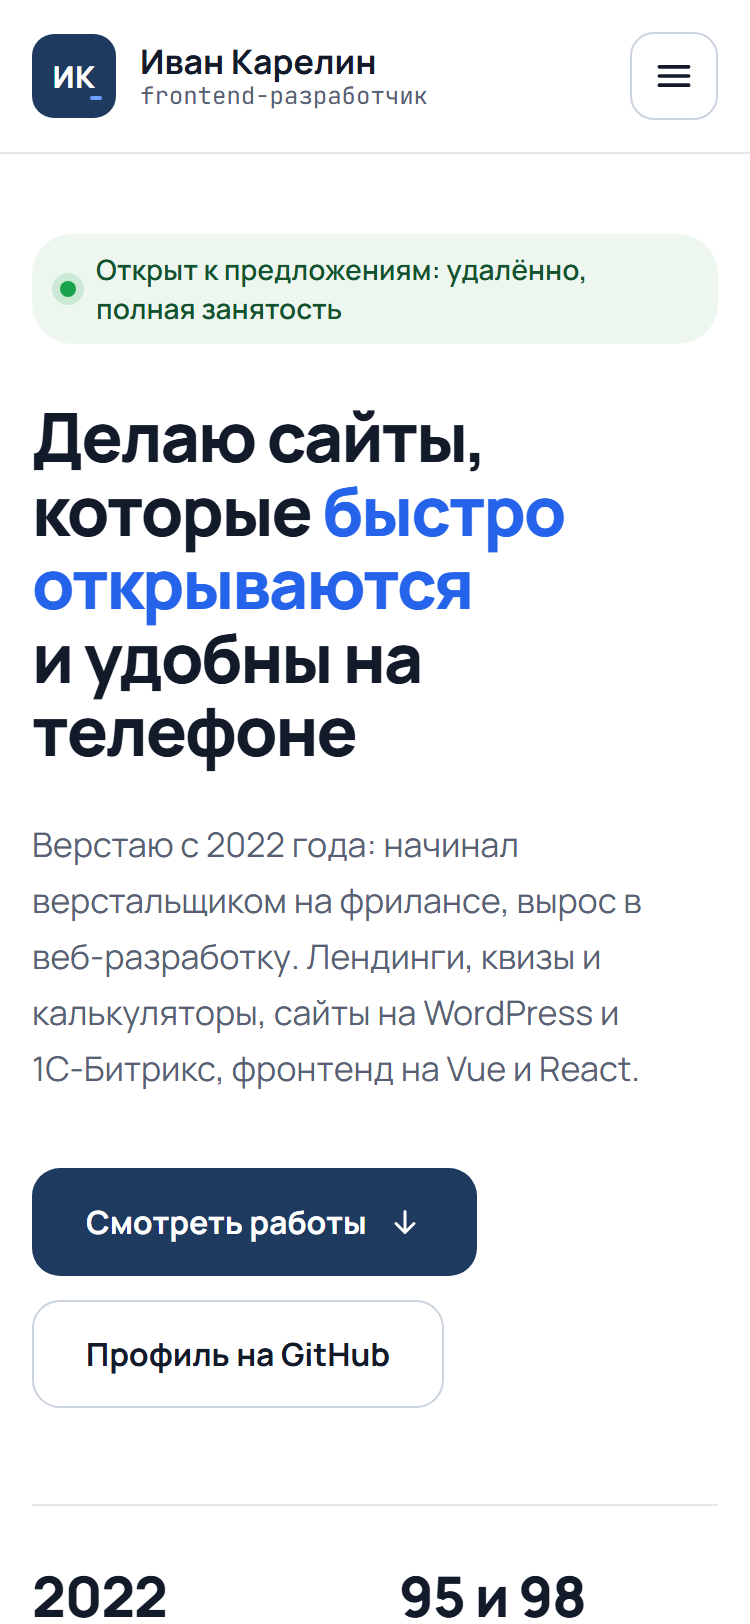
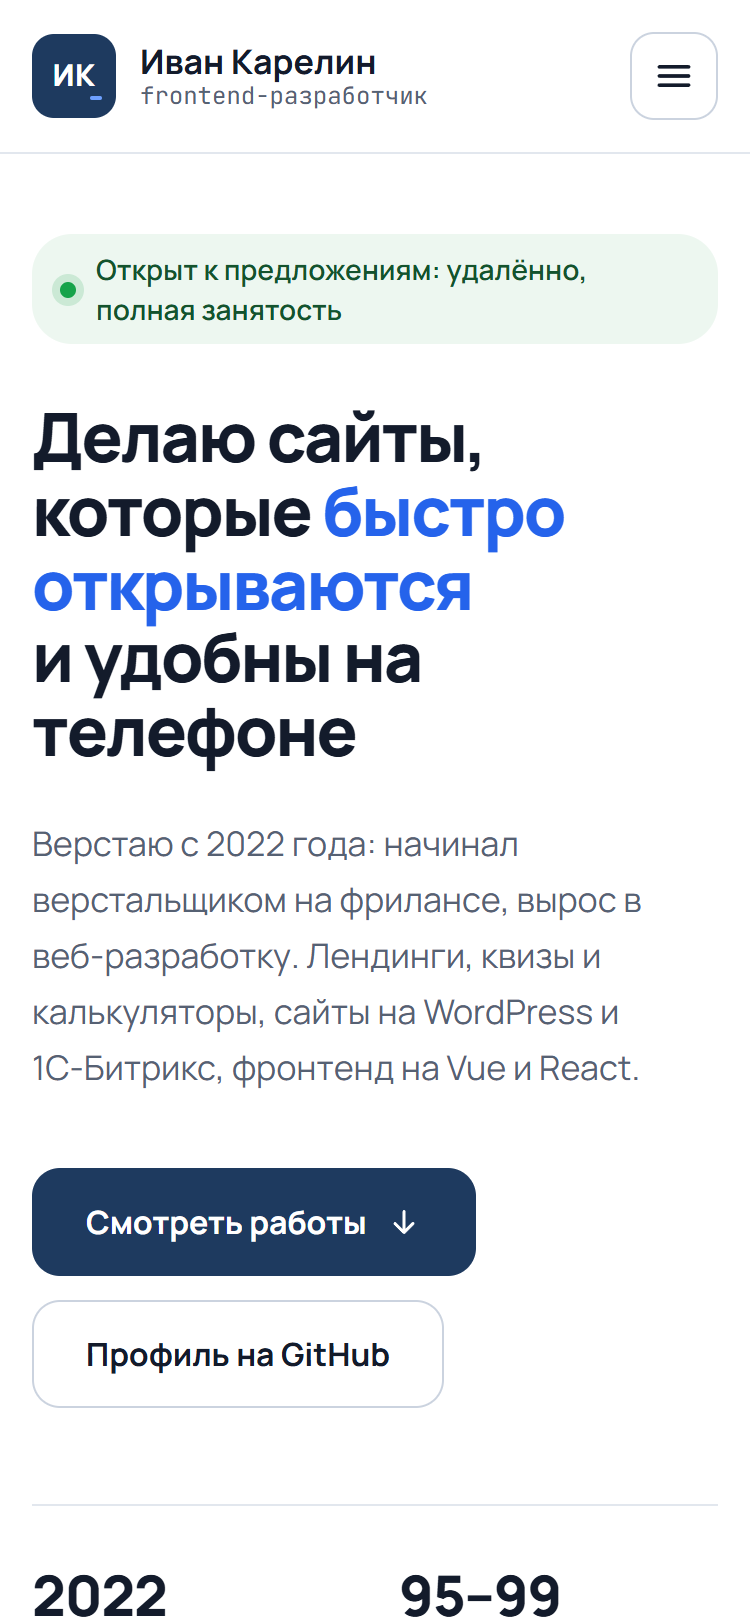
Витрина: каталог «Литера» первой работой
- карточка на всю ширину: скриншот слева, описание, стек и Lighthouse справа
- «Ясно» и «Пион» стали 02 и 03, каталог убран из блока «в работе»
- факты и описание для превью ссылки с учётом новой работы, свежие скриншоты в README

diff --git a/docs/css/main.css b/docs/css/main.css
@@ -1,1 +1,1 @@
-@font-face{font-family:"Manrope Fallback";font-style:normal;font-weight:400 500;src:local("Arial");size-adjust:102.4%}@font-face{font-family:"Manrope Fallback";font-style:normal;font-weight:600 700;src:local("Arial Bold");size-adjust:98.3%}@font-face{font-family:"Manrope Fallback";font-style:normal;font-weight:800;src:local("Arial Bold");size-adjust:100.7%}@font-face{font-family:"Manrope";font-style:normal;font-weight:200 800;font-display:swap;src:url("../fonts/manrope-cyrillic-wght-normal.woff2") format("woff2");unicode-range:U+0301,U+0400-045F,U+0490-0491,U+04B0-04B1,U+2116}@font-face{font-family:"Manrope";font-style:normal;font-weight:200 800;font-display:swap;src:url("../fonts/manrope-latin-wght-normal.woff2") format("woff2");unicode-range:U+0000-00FF,U+0131,U+0152-0153,U+02BB-02BC,U+02C6,U+02DA,U+02DC,U+0304,U+0308,U+0329,U+2000-206F,U+20AC,U+2122,U+2191,U+2193,U+2212,U+2215,U+FEFF,U+FFFD}@font-face{font-family:"JetBrains Mono";font-style:normal;font-weight:200 800;font-display:swap;src:url("../fonts/jetbrains-mono-cyrillic-wght-normal.woff2") format("woff2");unicode-range:U+0301,U+0400-045F,U+0490-0491,U+04B0-04B1,U+2116}@font-face{font-family:"JetBrains Mono";font-style:normal;font-weight:200 800;font-display:swap;src:url("../fonts/jetbrains-mono-latin-wght-normal.woff2") format("woff2");unicode-range:U+0000-00FF,U+0131,U+0152-0153,U+02BB-02BC,U+02C6,U+02DA,U+02DC,U+0304,U+0308,U+0329,U+2000-206F,U+20AC,U+2122,U+2191,U+2193,U+2212,U+2215,U+FEFF,U+FFFD}*,*::before,*::after{box-sizing:border-box}html{-webkit-text-size-adjust:100%;scroll-behavior:smooth;scroll-padding-top:88px}body{margin:0;font-family:"Manrope","Manrope Fallback",system-ui,-apple-system,"Segoe UI",sans-serif;font-size:16px;line-height:1.5;color:#131b2b;background:#fff;-webkit-font-smoothing:antialiased}img{display:block;max-width:100%;height:auto}h1,h2,h3,p,ul,ol,dl,dd,figure,pre{margin:0}ul,ol{padding:0;list-style:none}a{color:#1e3a5f}a:hover{color:#2563eb}:focus-visible{outline:3px solid #2563eb;outline-offset:3px}.wrap{max-width:1200px;margin-inline:auto;padding-inline:clamp(16px,4vw,40px)}.visually-hidden{position:absolute;width:1px;height:1px;margin:-1px;padding:0;overflow:hidden;clip:rect(0 0 0 0);white-space:nowrap;border:0}.nowrap{white-space:nowrap}.skip-link{position:absolute;top:-100px;left:16px;z-index:100;padding:12px 18px;border-radius:12px;background:#1e3a5f;color:#fff;font-weight:700;text-decoration:none}.skip-link:focus{top:12px;color:#fff}.icon{flex-shrink:0;width:18px;height:18px;fill:none;stroke:currentColor;stroke-width:2;stroke-linecap:round;stroke-linejoin:round}.sprite{position:absolute;width:0;height:0;overflow:hidden}@media(prefers-reduced-motion: reduce){html{scroll-behavior:auto}*,*::before,*::after{transition-duration:.01ms !important;animation-duration:.01ms !important}}.btn{display:inline-flex;align-items:center;justify-content:center;gap:10px;height:54px;padding:0 26px;border:1px solid rgba(0,0,0,0);border-radius:14px;font:inherit;font-size:16px;font-weight:700;line-height:1;text-decoration:none;white-space:nowrap;cursor:pointer;transition:background-color .2s,border-color .2s,color .2s}.btn--primary{background:#1e3a5f;color:#fff}.btn--primary:hover{background:#16304f;color:#fff}.btn--outline{border-color:#cbd3df;background:rgba(0,0,0,0);color:#131b2b}.btn--outline:hover{border-color:#1e3a5f;color:#1e3a5f}.btn--md{gap:8px;height:48px;padding:0 20px;border-radius:12px;font-size:15px}.btn--sm{gap:8px;height:44px;padding:0 18px;border-radius:12px;font-size:15px}.btn--md .icon{width:16px;height:16px}.section{padding-block:96px}.section--ground{background:#f5f7fa}@media(max-width: 599.98px){.section{padding-block:64px}}.section__label{font-family:"JetBrains Mono",ui-monospace,"Cascadia Mono",Consolas,monospace;font-size:13px;font-weight:500;color:#2563eb}.section__title{margin-top:12px;font-size:clamp(32px,3.4vw,44px);font-weight:800;line-height:1.1;letter-spacing:-0.025em}.section__head{display:flex;flex-wrap:wrap;align-items:flex-end;justify-content:space-between;gap:16px 48px}.section__text{max-width:520px;font-size:17px;line-height:1.6;color:#566173}.tag{padding:5px 12px;border-radius:999px;background:#eef2f8;font-size:13px;font-weight:600;color:#1e3a5f}.badge{display:inline-block;padding:4px 10px;border-radius:999px;background:#fff3e2;font-family:"JetBrains Mono",ui-monospace,"Cascadia Mono",Consolas,monospace;font-size:12px;font-weight:500;color:#8a4b00}.dots{display:flex;gap:8px}.dots span{width:10px;height:10px;border-radius:50%;background:#d5dbe4}.dots--sm{gap:6px}.dots--sm span{width:8px;height:8px}.checklist{display:grid;gap:10px;font-size:15px;line-height:1.5}.checklist li{display:flex;gap:10px}.checklist .icon{width:20px;height:20px;margin-top:1px;color:#16a34a;stroke-width:2.4}.code-tags{display:flex;flex-wrap:wrap;gap:8px}.code-tags li{padding:5px 10px;border:1px solid #e2e7ee;border-radius:8px;font-family:"JetBrains Mono",ui-monospace,"Cascadia Mono",Consolas,monospace;font-size:13px}.chips{display:flex;flex-wrap:wrap;gap:8px}.chips li{padding:5px 11px;border-radius:8px;background:#f5f7fa;font-size:14px;font-weight:500}.header{position:sticky;top:0;z-index:50;background:#fff;border-bottom:1px solid #e2e7ee;transition:box-shadow .2s}.header.is-scrolled{box-shadow:0 8px 24px rgba(19,27,43,.06)}.header__inner{display:flex;align-items:center;gap:24px;height:76px}.logo{display:flex;flex-shrink:0;align-items:center;gap:12px;color:#131b2b;text-decoration:none}.logo:hover{color:#131b2b}.logo__mark{position:relative;display:inline-flex;align-items:center;justify-content:center;width:42px;height:42px;border-radius:11px;background:#1e3a5f;color:#fff;font-size:15px;font-weight:800;letter-spacing:.02em}.logo__mark::after{content:"";position:absolute;right:7px;bottom:9px;width:6px;height:2px;border-radius:1px;background:#6ea0ff}.logo__text{display:flex;flex-direction:column;line-height:1.2}.logo__name{font-size:17px;font-weight:700}.logo__role{font-family:"JetBrains Mono",ui-monospace,"Cascadia Mono",Consolas,monospace;font-size:12px;color:#566173}.nav{margin-left:auto}.nav__list{display:flex;gap:28px}.nav__link{position:relative;display:inline-flex;align-items:center;min-height:44px;font-size:15px;font-weight:600;color:#131b2b;text-decoration:none}.nav__link:hover{color:#2563eb}.nav__link[aria-current=true]{color:#1e3a5f}.nav__link[aria-current=true]::after{content:"";position:absolute;right:0;bottom:6px;left:0;height:2px;border-radius:1px;background:#2563eb}.nav__item--mobile{display:none}.header__github{margin-left:8px}.header__burger{display:none}.header__burger .icon{width:22px;height:22px}.header__burger .icon--close,.header__burger[aria-expanded=true] .icon--menu{display:none}.header__burger[aria-expanded=true] .icon--close{display:block}@media(max-width: 859.98px){.header__github{margin-left:auto}.header__burger{display:inline-flex;align-items:center;justify-content:center;width:44px;height:44px;padding:0;border:1px solid #cbd3df;border-radius:12px;background:#fff;color:#131b2b;cursor:pointer}.nav{position:absolute;top:100%;right:0;left:0;display:none;margin:0;padding:4px clamp(16px,4vw,40px) 20px;background:#fff;border-bottom:1px solid #e2e7ee;box-shadow:0 16px 32px rgba(19,27,43,.08)}.header.is-menu-open .nav{display:block}.nav__list{flex-direction:column;gap:0}.nav__link{display:flex;min-height:54px;border-bottom:1px solid #e2e7ee;font-size:17px}.nav__link[aria-current=true]::after{display:none}.nav__item--mobile{display:block}}@media(max-width: 519.98px){.header__github{display:none}.header__burger{margin-left:auto}}.hero__inner{display:flex;flex-wrap:wrap;align-items:center;gap:56px 64px;padding-block:72px 96px}@media(max-width: 599.98px){.hero__inner{gap:48px;padding-block:40px 72px}}.hero__content{flex:1 1 560px;min-width:0}.hero__visual{flex:1 1 440px;min-width:0;max-width:600px}.status{display:inline-flex;align-items:center;gap:10px;padding:8px 16px 8px 14px;border-radius:20px;background:#edf7f0;font-size:14px;font-weight:600;line-height:1.4;color:#14532d}.status__dot{flex-shrink:0;width:8px;height:8px;border-radius:50%;background:#16a34a;box-shadow:0 0 0 4px rgba(22,163,74,.16)}.hero__title{margin-top:28px;font-size:clamp(34px,3.7vw,52px);font-weight:800;line-height:1.08;letter-spacing:-0.03em}.hero__accent{color:#2563eb}.hero__lead{max-width:560px;margin-top:24px;font-size:18px;line-height:1.65;color:#566173}@media(max-width: 599.98px){.hero__lead{font-size:17px}}.hero__actions{display:flex;flex-wrap:wrap;gap:12px;margin-top:36px}.facts{display:grid;grid-template-columns:repeat(auto-fit, minmax(150px, 1fr));gap:20px 24px;margin-top:48px;padding-top:28px;border-top:1px solid #e2e7ee}.facts__item{display:flex;flex-direction:column;gap:4px}.facts__value{font-size:28px;font-weight:800;line-height:1.2;letter-spacing:-0.02em}.facts__label{font-size:14px;color:#566173}.code-stage{position:relative;padding:clamp(10px,3vw,36px);border-radius:32px;background-color:#f5f7fa;background-image:radial-gradient(#cbd3df 1.2px, transparent 1.2px);background-size:20px 20px}.code-card{overflow:hidden;background:#fff;border:1px solid #e2e7ee;border-radius:20px;box-shadow:0 24px 60px rgba(19,27,43,.1)}.code-card__bar{display:flex;align-items:center;gap:18px;padding:14px 18px;border-bottom:1px solid #e2e7ee}.code-card__file{padding:4px 10px;border-radius:8px;background:#f5f7fa;font-family:"JetBrains Mono",ui-monospace,"Cascadia Mono",Consolas,monospace;font-size:13px;color:#566173}.code{padding:22px 24px 26px;overflow-x:auto;font-family:"JetBrains Mono",ui-monospace,"Cascadia Mono",Consolas,monospace;font-size:clamp(12px,1.05vw,14px);line-height:1.8;color:#566173;counter-reset:line}@media(max-width: 599.98px){.code{padding:18px 16px 20px}}.code__line::before{counter-increment:line;content:counter(line);display:inline-block;width:2ch;margin-right:1ch;color:#a3acba}@media(max-width: 599.98px){.code__line::before{display:none}}.code__kw{color:#7a4fd6}.code__var{font-weight:500;color:#131b2b}.code__prop{color:#1e3a5f}.code__str{color:#0e7c66}.code__num{color:#c2410c}.score-badge{position:absolute;right:-12px;bottom:-30px;display:flex;flex-wrap:wrap;align-items:center;gap:12px 16px;padding:14px 18px;background:#fff;border:1px solid #e2e7ee;border-radius:18px;box-shadow:0 18px 40px rgba(19,27,43,.1)}@media(max-width: 599.98px){.score-badge{position:relative;right:auto;bottom:auto;margin-top:16px}}.score-badge__title{display:flex;flex-direction:column;line-height:1.35}.score-badge__label{font-family:"JetBrains Mono",ui-monospace,"Cascadia Mono",Consolas,monospace;font-size:12px;color:#566173}.score-badge__name{font-size:15px;font-weight:700}.score-badge__list{display:flex;gap:8px}.score-ring{display:inline-flex;align-items:center;justify-content:center;width:40px;height:40px;border:3px solid #16a34a;border-radius:50%;font-size:12px;font-weight:800;color:#166534}.works,.upcoming{display:grid;grid-template-columns:repeat(auto-fit, minmax(min(100%, 440px), 1fr));gap:24px}.works{margin-top:48px}.upcoming{margin-top:24px}.work-card{display:flex;flex-direction:column;overflow:hidden;background:#fff;border:1px solid #e2e7ee;border-radius:28px}.work-card__media{position:relative;padding:28px 28px 0}.work-card__media--okna{background:#e9eff8}.work-card__media--pion{background:#fbeef1}@media(max-width: 599.98px){.work-card__media{padding:20px 20px 0}}.browser{overflow:hidden;background:#fff;border-radius:12px 12px 0 0;box-shadow:0 -2px 30px rgba(19,27,43,.08)}.browser__bar{display:flex;align-items:center;gap:14px;padding:10px 14px}.browser__url{min-width:0;padding:3px 10px;overflow:hidden;border-radius:6px;background:#f5f7fa;font-family:"JetBrains Mono",ui-monospace,"Cascadia Mono",Consolas,monospace;font-size:11px;color:#566173;white-space:nowrap;text-overflow:ellipsis}.browser__shot{width:100%;aspect-ratio:16/10;object-fit:cover}.phone{position:absolute;right:20px;bottom:18px;width:clamp(84px,22%,118px);overflow:hidden;background:#fff;border:5px solid #1b2433;border-radius:20px;box-shadow:0 16px 36px rgba(19,27,43,.22)}.phone img{width:100%;aspect-ratio:300/633}@media(max-width: 599.98px){.phone{right:12px;bottom:12px;border-width:4px;border-radius:16px}}.work-card__body{display:flex;flex:1;flex-direction:column;gap:22px;padding:32px clamp(20px,3vw,36px) 36px}@media(max-width: 599.98px){.work-card__body{padding-block:26px 28px}}.work-card__tags{display:flex;flex-wrap:wrap;align-items:center;gap:10px}.work-card__num{font-family:"JetBrains Mono",ui-monospace,"Cascadia Mono",Consolas,monospace;font-size:13px;color:#566173}.work-card__title{font-size:26px;font-weight:800;line-height:1.2;letter-spacing:-0.02em}.work-card__text{margin-top:10px;font-size:16px;line-height:1.6;color:#566173}.scores__title{font-family:"JetBrains Mono",ui-monospace,"Cascadia Mono",Consolas,monospace;font-size:12px;color:#566173}.scores__list{display:grid;grid-template-columns:repeat(4, minmax(0, 1fr));gap:8px;margin-top:10px}@media(max-width: 479.98px){.scores__list{grid-template-columns:repeat(2, minmax(0, 1fr))}}.score{padding:10px;border-radius:12px;background:#eff8f2}.score__value{display:block;font-size:20px;font-weight:800;line-height:1.3;color:#166534}.score__label{display:block;font-size:12px;color:#3b5a45}.work-card__actions{display:flex;flex-wrap:wrap;gap:10px;margin-top:auto;padding-top:4px}.upcoming__card{display:flex;flex-wrap:wrap;align-items:center;gap:16px 24px;padding:28px clamp(20px,3vw,36px);border:1.5px dashed #cbd3df;border-radius:24px}.upcoming__body{flex:1 1 240px;min-width:0}.upcoming__title{margin-top:12px;font-size:20px;font-weight:800;letter-spacing:-0.01em}.upcoming__text{margin-top:6px;font-size:15px;line-height:1.55;color:#566173}.upcoming__stack{font-family:"JetBrains Mono",ui-monospace,"Cascadia Mono",Consolas,monospace;font-size:13px;color:#566173}.skills{display:grid;grid-template-columns:repeat(auto-fit, minmax(min(100%, 250px), 1fr));gap:20px;margin-top:40px}.skill-group{padding:28px;border:1px solid #e2e7ee;border-radius:22px}@media(max-width: 599.98px){.skill-group{padding:24px 20px}}.skill-group__icon{display:inline-flex;align-items:center;justify-content:center;width:44px;height:44px;border-radius:12px;background:#eef2f8;color:#1e3a5f}.skill-group__icon .icon{width:22px;height:22px;stroke-width:1.9}.skill-group__title{margin-top:18px;font-size:19px;font-weight:800}.skill-group .chips{margin-top:16px}.skills__note{margin-top:28px;font-size:16px;line-height:1.6;color:#566173}.about{display:flex;flex-wrap:wrap;gap:48px 72px}.about__intro{flex:1 1 420px;min-width:0}.about__text{margin-top:28px}.about__text p{font-size:18px;line-height:1.7;color:#2b3445}.about__text p+p{margin-top:18px}@media(max-width: 599.98px){.about__text p{font-size:17px}}.about__meta{display:grid;gap:12px;margin-top:32px}.meta-row{display:flex;flex-wrap:wrap;gap:4px 16px;padding:14px 18px;background:#fff;border:1px solid #e2e7ee;border-radius:14px}.meta-row dt{flex:0 0 120px;font-family:"JetBrains Mono",ui-monospace,"Cascadia Mono",Consolas,monospace;font-size:13px;line-height:1.7;color:#566173}.meta-row dd{font-size:15px;font-weight:600}.about__offers{flex:1 1 460px;min-width:0}.about__subtitle{font-size:15px;font-weight:700;color:#566173}.offers{display:grid;gap:16px;margin-top:20px}.offer{display:flex;gap:20px;padding:26px;background:#fff;border:1px solid #e2e7ee;border-radius:20px}@media(max-width: 599.98px){.offer{gap:14px;padding:22px 20px}}.offer__num{flex-shrink:0;font-family:"JetBrains Mono",ui-monospace,"Cascadia Mono",Consolas,monospace;font-size:14px;font-weight:500;line-height:1.75;color:#2563eb}.offer__title{font-size:18px;font-weight:800}.offer__text{margin-top:8px;font-size:15px;line-height:1.6;color:#566173}.cta{display:flex;flex-wrap:wrap;align-items:center;justify-content:space-between;gap:32px 48px;padding:clamp(28px,5vw,56px);border-radius:32px;background:#eaf0fb}@media(max-width: 599.98px){.cta{border-radius:24px}}.cta__content{flex:1 1 480px;min-width:0}.cta__title{font-size:clamp(28px,3vw,40px);font-weight:800;line-height:1.15;letter-spacing:-0.025em;text-wrap:balance}.cta__text{max-width:560px;margin-top:16px;font-size:17px;line-height:1.6;color:#3e4859}.footer{border-top:1px solid #e2e7ee}.footer__inner{display:flex;flex-wrap:wrap;align-items:center;justify-content:space-between;gap:12px 32px;padding-block:28px 32px;font-size:14px;line-height:1.5;color:#566173}.footer__link{font-weight:600}
+@font-face{font-family:"Manrope Fallback";font-style:normal;font-weight:400 500;src:local("Arial");size-adjust:102.4%}@font-face{font-family:"Manrope Fallback";font-style:normal;font-weight:600 700;src:local("Arial Bold");size-adjust:98.3%}@font-face{font-family:"Manrope Fallback";font-style:normal;font-weight:800;src:local("Arial Bold");size-adjust:100.7%}@font-face{font-family:"Manrope";font-style:normal;font-weight:200 800;font-display:swap;src:url("../fonts/manrope-cyrillic-wght-normal.woff2") format("woff2");unicode-range:U+0301,U+0400-045F,U+0490-0491,U+04B0-04B1,U+2116}@font-face{font-family:"Manrope";font-style:normal;font-weight:200 800;font-display:swap;src:url("../fonts/manrope-latin-wght-normal.woff2") format("woff2");unicode-range:U+0000-00FF,U+0131,U+0152-0153,U+02BB-02BC,U+02C6,U+02DA,U+02DC,U+0304,U+0308,U+0329,U+2000-206F,U+20AC,U+2122,U+2191,U+2193,U+2212,U+2215,U+FEFF,U+FFFD}@font-face{font-family:"JetBrains Mono";font-style:normal;font-weight:200 800;font-display:swap;src:url("../fonts/jetbrains-mono-cyrillic-wght-normal.woff2") format("woff2");unicode-range:U+0301,U+0400-045F,U+0490-0491,U+04B0-04B1,U+2116}@font-face{font-family:"JetBrains Mono";font-style:normal;font-weight:200 800;font-display:swap;src:url("../fonts/jetbrains-mono-latin-wght-normal.woff2") format("woff2");unicode-range:U+0000-00FF,U+0131,U+0152-0153,U+02BB-02BC,U+02C6,U+02DA,U+02DC,U+0304,U+0308,U+0329,U+2000-206F,U+20AC,U+2122,U+2191,U+2193,U+2212,U+2215,U+FEFF,U+FFFD}*,*::before,*::after{box-sizing:border-box}html{-webkit-text-size-adjust:100%;scroll-behavior:smooth;scroll-padding-top:88px}body{margin:0;font-family:"Manrope","Manrope Fallback",system-ui,-apple-system,"Segoe UI",sans-serif;font-size:16px;line-height:1.5;color:#131b2b;background:#fff;-webkit-font-smoothing:antialiased}img{display:block;max-width:100%;height:auto}h1,h2,h3,p,ul,ol,dl,dd,figure,pre{margin:0}ul,ol{padding:0;list-style:none}a{color:#1e3a5f}a:hover{color:#2563eb}:focus-visible{outline:3px solid #2563eb;outline-offset:3px}.wrap{max-width:1200px;margin-inline:auto;padding-inline:clamp(16px,4vw,40px)}.visually-hidden{position:absolute;width:1px;height:1px;margin:-1px;padding:0;overflow:hidden;clip:rect(0 0 0 0);white-space:nowrap;border:0}.nowrap{white-space:nowrap}.skip-link{position:absolute;top:-100px;left:16px;z-index:100;padding:12px 18px;border-radius:12px;background:#1e3a5f;color:#fff;font-weight:700;text-decoration:none}.skip-link:focus{top:12px;color:#fff}.icon{flex-shrink:0;width:18px;height:18px;fill:none;stroke:currentColor;stroke-width:2;stroke-linecap:round;stroke-linejoin:round}.sprite{position:absolute;width:0;height:0;overflow:hidden}@media(prefers-reduced-motion: reduce){html{scroll-behavior:auto}*,*::before,*::after{transition-duration:.01ms !important;animation-duration:.01ms !important}}.btn{display:inline-flex;align-items:center;justify-content:center;gap:10px;height:54px;padding:0 26px;border:1px solid rgba(0,0,0,0);border-radius:14px;font:inherit;font-size:16px;font-weight:700;line-height:1;text-decoration:none;white-space:nowrap;cursor:pointer;transition:background-color .2s,border-color .2s,color .2s}.btn--primary{background:#1e3a5f;color:#fff}.btn--primary:hover{background:#16304f;color:#fff}.btn--outline{border-color:#cbd3df;background:rgba(0,0,0,0);color:#131b2b}.btn--outline:hover{border-color:#1e3a5f;color:#1e3a5f}.btn--md{gap:8px;height:48px;padding:0 20px;border-radius:12px;font-size:15px}.btn--sm{gap:8px;height:44px;padding:0 18px;border-radius:12px;font-size:15px}.btn--md .icon{width:16px;height:16px}.section{padding-block:96px}.section--ground{background:#f5f7fa}@media(max-width: 599.98px){.section{padding-block:64px}}.section__label{font-family:"JetBrains Mono",ui-monospace,"Cascadia Mono",Consolas,monospace;font-size:13px;font-weight:500;color:#2563eb}.section__title{margin-top:12px;font-size:clamp(32px,3.4vw,44px);font-weight:800;line-height:1.1;letter-spacing:-0.025em}.section__head{display:flex;flex-wrap:wrap;align-items:flex-end;justify-content:space-between;gap:16px 48px}.section__text{max-width:520px;font-size:17px;line-height:1.6;color:#566173}.tag{padding:5px 12px;border-radius:999px;background:#eef2f8;font-size:13px;font-weight:600;color:#1e3a5f}.badge{display:inline-block;padding:4px 10px;border-radius:999px;background:#fff3e2;font-family:"JetBrains Mono",ui-monospace,"Cascadia Mono",Consolas,monospace;font-size:12px;font-weight:500;color:#8a4b00}.dots{display:flex;gap:8px}.dots span{width:10px;height:10px;border-radius:50%;background:#d5dbe4}.dots--sm{gap:6px}.dots--sm span{width:8px;height:8px}.checklist{display:grid;gap:10px;font-size:15px;line-height:1.5}.checklist li{display:flex;gap:10px}.checklist .icon{width:20px;height:20px;margin-top:1px;color:#16a34a;stroke-width:2.4}.code-tags{display:flex;flex-wrap:wrap;gap:8px}.code-tags li{padding:5px 10px;border:1px solid #e2e7ee;border-radius:8px;font-family:"JetBrains Mono",ui-monospace,"Cascadia Mono",Consolas,monospace;font-size:13px}.chips{display:flex;flex-wrap:wrap;gap:8px}.chips li{padding:5px 11px;border-radius:8px;background:#f5f7fa;font-size:14px;font-weight:500}.header{position:sticky;top:0;z-index:50;background:#fff;border-bottom:1px solid #e2e7ee;transition:box-shadow .2s}.header.is-scrolled{box-shadow:0 8px 24px rgba(19,27,43,.06)}.header__inner{display:flex;align-items:center;gap:24px;height:76px}.logo{display:flex;flex-shrink:0;align-items:center;gap:12px;color:#131b2b;text-decoration:none}.logo:hover{color:#131b2b}.logo__mark{position:relative;display:inline-flex;align-items:center;justify-content:center;width:42px;height:42px;border-radius:11px;background:#1e3a5f;color:#fff;font-size:15px;font-weight:800;letter-spacing:.02em}.logo__mark::after{content:"";position:absolute;right:7px;bottom:9px;width:6px;height:2px;border-radius:1px;background:#6ea0ff}.logo__text{display:flex;flex-direction:column;line-height:1.2}.logo__name{font-size:17px;font-weight:700}.logo__role{font-family:"JetBrains Mono",ui-monospace,"Cascadia Mono",Consolas,monospace;font-size:12px;color:#566173}.nav{margin-left:auto}.nav__list{display:flex;gap:28px}.nav__link{position:relative;display:inline-flex;align-items:center;min-height:44px;font-size:15px;font-weight:600;color:#131b2b;text-decoration:none}.nav__link:hover{color:#2563eb}.nav__link[aria-current=true]{color:#1e3a5f}.nav__link[aria-current=true]::after{content:"";position:absolute;right:0;bottom:6px;left:0;height:2px;border-radius:1px;background:#2563eb}.nav__item--mobile{display:none}.header__github{margin-left:8px}.header__burger{display:none}.header__burger .icon{width:22px;height:22px}.header__burger .icon--close,.header__burger[aria-expanded=true] .icon--menu{display:none}.header__burger[aria-expanded=true] .icon--close{display:block}@media(max-width: 859.98px){.header__github{margin-left:auto}.header__burger{display:inline-flex;align-items:center;justify-content:center;width:44px;height:44px;padding:0;border:1px solid #cbd3df;border-radius:12px;background:#fff;color:#131b2b;cursor:pointer}.nav{position:absolute;top:100%;right:0;left:0;display:none;margin:0;padding:4px clamp(16px,4vw,40px) 20px;background:#fff;border-bottom:1px solid #e2e7ee;box-shadow:0 16px 32px rgba(19,27,43,.08)}.header.is-menu-open .nav{display:block}.nav__list{flex-direction:column;gap:0}.nav__link{display:flex;min-height:54px;border-bottom:1px solid #e2e7ee;font-size:17px}.nav__link[aria-current=true]::after{display:none}.nav__item--mobile{display:block}}@media(max-width: 519.98px){.header__github{display:none}.header__burger{margin-left:auto}}.hero__inner{display:flex;flex-wrap:wrap;align-items:center;gap:56px 64px;padding-block:72px 96px}@media(max-width: 599.98px){.hero__inner{gap:48px;padding-block:40px 72px}}.hero__content{flex:1 1 560px;min-width:0}.hero__visual{flex:1 1 440px;min-width:0;max-width:600px}.status{display:inline-flex;align-items:center;gap:10px;padding:8px 16px 8px 14px;border-radius:20px;background:#edf7f0;font-size:14px;font-weight:600;line-height:1.4;color:#14532d}.status__dot{flex-shrink:0;width:8px;height:8px;border-radius:50%;background:#16a34a;box-shadow:0 0 0 4px rgba(22,163,74,.16)}.hero__title{margin-top:28px;font-size:clamp(34px,3.7vw,52px);font-weight:800;line-height:1.08;letter-spacing:-0.03em}.hero__accent{color:#2563eb}.hero__lead{max-width:560px;margin-top:24px;font-size:18px;line-height:1.65;color:#566173}@media(max-width: 599.98px){.hero__lead{font-size:17px}}.hero__actions{display:flex;flex-wrap:wrap;gap:12px;margin-top:36px}.facts{display:grid;grid-template-columns:repeat(auto-fit, minmax(150px, 1fr));gap:20px 24px;margin-top:48px;padding-top:28px;border-top:1px solid #e2e7ee}.facts__item{display:flex;flex-direction:column;gap:4px}.facts__value{font-size:28px;font-weight:800;line-height:1.2;letter-spacing:-0.02em}.facts__label{font-size:14px;color:#566173}.code-stage{position:relative;padding:clamp(10px,3vw,36px);border-radius:32px;background-color:#f5f7fa;background-image:radial-gradient(#cbd3df 1.2px, transparent 1.2px);background-size:20px 20px}.code-card{overflow:hidden;background:#fff;border:1px solid #e2e7ee;border-radius:20px;box-shadow:0 24px 60px rgba(19,27,43,.1)}.code-card__bar{display:flex;align-items:center;gap:18px;padding:14px 18px;border-bottom:1px solid #e2e7ee}.code-card__file{padding:4px 10px;border-radius:8px;background:#f5f7fa;font-family:"JetBrains Mono",ui-monospace,"Cascadia Mono",Consolas,monospace;font-size:13px;color:#566173}.code{padding:22px 24px 26px;overflow-x:auto;font-family:"JetBrains Mono",ui-monospace,"Cascadia Mono",Consolas,monospace;font-size:clamp(12px,1.05vw,14px);line-height:1.8;color:#566173;counter-reset:line}@media(max-width: 599.98px){.code{padding:18px 16px 20px}}.code__line::before{counter-increment:line;content:counter(line);display:inline-block;width:2ch;margin-right:1ch;color:#a3acba}@media(max-width: 599.98px){.code__line::before{display:none}}.code__kw{color:#7a4fd6}.code__var{font-weight:500;color:#131b2b}.code__prop{color:#1e3a5f}.code__str{color:#0e7c66}.code__num{color:#c2410c}.score-badge{position:absolute;right:-12px;bottom:-30px;display:flex;flex-wrap:wrap;align-items:center;gap:12px 16px;padding:14px 18px;background:#fff;border:1px solid #e2e7ee;border-radius:18px;box-shadow:0 18px 40px rgba(19,27,43,.1)}@media(max-width: 599.98px){.score-badge{position:relative;right:auto;bottom:auto;margin-top:16px}}.score-badge__title{display:flex;flex-direction:column;line-height:1.35}.score-badge__label{font-family:"JetBrains Mono",ui-monospace,"Cascadia Mono",Consolas,monospace;font-size:12px;color:#566173}.score-badge__name{font-size:15px;font-weight:700}.score-badge__list{display:flex;gap:8px}.score-ring{display:inline-flex;align-items:center;justify-content:center;width:40px;height:40px;border:3px solid #16a34a;border-radius:50%;font-size:12px;font-weight:800;color:#166534}.works,.upcoming{display:grid;grid-template-columns:repeat(auto-fit, minmax(min(100%, 440px), 1fr));gap:24px}.works{margin-top:48px}.upcoming{margin-top:24px}.work-card{display:flex;flex-direction:column;overflow:hidden;background:#fff;border:1px solid #e2e7ee;border-radius:28px}.work-card__media{position:relative;padding:28px 28px 0}.work-card__media--okna{background:#e9eff8}.work-card__media--pion{background:#fbeef1}.work-card__media--litera{background:#e8efea}@media(max-width: 599.98px){.work-card__media{padding:20px 20px 0}}.browser{overflow:hidden;background:#fff;border-radius:12px 12px 0 0;box-shadow:0 -2px 30px rgba(19,27,43,.08)}.browser__bar{display:flex;align-items:center;gap:14px;padding:10px 14px}.browser__url{min-width:0;padding:3px 10px;overflow:hidden;border-radius:6px;background:#f5f7fa;font-family:"JetBrains Mono",ui-monospace,"Cascadia Mono",Consolas,monospace;font-size:11px;color:#566173;white-space:nowrap;text-overflow:ellipsis}.browser__shot{width:100%;aspect-ratio:16/10;object-fit:cover}.phone{position:absolute;right:20px;bottom:18px;width:clamp(84px,22%,118px);overflow:hidden;background:#fff;border:5px solid #1b2433;border-radius:20px;box-shadow:0 16px 36px rgba(19,27,43,.22)}.phone img{width:100%;aspect-ratio:300/633}@media(max-width: 599.98px){.phone{right:12px;bottom:12px;border-width:4px;border-radius:16px}}@media(min-width: 984px){.work-card--wide{display:grid;grid-column:1/-1;grid-template-columns:minmax(0, 1.2fr) minmax(0, 1fr)}.work-card--wide .work-card__media{display:flex;flex-direction:column;padding:36px 36px 0}.work-card--wide .browser{display:flex;flex:1;flex-direction:column}.work-card--wide .browser__shot{flex:1 1 0;min-height:0;aspect-ratio:auto;object-position:left top}.work-card--wide .phone{right:24px;bottom:24px}}.browser__shot{object-position:top}.work-card__body{display:flex;flex:1;flex-direction:column;gap:22px;padding:32px clamp(20px,3vw,36px) 36px}@media(max-width: 599.98px){.work-card__body{padding-block:26px 28px}}.work-card__tags{display:flex;flex-wrap:wrap;align-items:center;gap:10px}.work-card__num{font-family:"JetBrains Mono",ui-monospace,"Cascadia Mono",Consolas,monospace;font-size:13px;color:#566173}.work-card__title{font-size:26px;font-weight:800;line-height:1.2;letter-spacing:-0.02em}.work-card__text{margin-top:10px;font-size:16px;line-height:1.6;color:#566173}.scores__title{font-family:"JetBrains Mono",ui-monospace,"Cascadia Mono",Consolas,monospace;font-size:12px;color:#566173}.scores__list{display:grid;grid-template-columns:repeat(4, minmax(0, 1fr));gap:8px;margin-top:10px}@media(max-width: 479.98px){.scores__list{grid-template-columns:repeat(2, minmax(0, 1fr))}}.score{padding:10px;border-radius:12px;background:#eff8f2}.score__value{display:block;font-size:20px;font-weight:800;line-height:1.3;color:#166534}.score__label{display:block;font-size:12px;color:#3b5a45}.work-card__actions{display:flex;flex-wrap:wrap;gap:10px;margin-top:auto;padding-top:4px}.upcoming__card{display:flex;flex-wrap:wrap;align-items:center;gap:16px 24px;padding:28px clamp(20px,3vw,36px);border:1.5px dashed #cbd3df;border-radius:24px}.upcoming__body{flex:1 1 240px;min-width:0}.upcoming__title{margin-top:12px;font-size:20px;font-weight:800;letter-spacing:-0.01em}.upcoming__text{margin-top:6px;font-size:15px;line-height:1.55;color:#566173}.upcoming__stack{font-family:"JetBrains Mono",ui-monospace,"Cascadia Mono",Consolas,monospace;font-size:13px;color:#566173}.skills{display:grid;grid-template-columns:repeat(auto-fit, minmax(min(100%, 250px), 1fr));gap:20px;margin-top:40px}.skill-group{padding:28px;border:1px solid #e2e7ee;border-radius:22px}@media(max-width: 599.98px){.skill-group{padding:24px 20px}}.skill-group__icon{display:inline-flex;align-items:center;justify-content:center;width:44px;height:44px;border-radius:12px;background:#eef2f8;color:#1e3a5f}.skill-group__icon .icon{width:22px;height:22px;stroke-width:1.9}.skill-group__title{margin-top:18px;font-size:19px;font-weight:800}.skill-group .chips{margin-top:16px}.skills__note{margin-top:28px;font-size:16px;line-height:1.6;color:#566173}.about{display:flex;flex-wrap:wrap;gap:48px 72px}.about__intro{flex:1 1 420px;min-width:0}.about__text{margin-top:28px}.about__text p{font-size:18px;line-height:1.7;color:#2b3445}.about__text p+p{margin-top:18px}@media(max-width: 599.98px){.about__text p{font-size:17px}}.about__meta{display:grid;gap:12px;margin-top:32px}.meta-row{display:flex;flex-wrap:wrap;gap:4px 16px;padding:14px 18px;background:#fff;border:1px solid #e2e7ee;border-radius:14px}.meta-row dt{flex:0 0 120px;font-family:"JetBrains Mono",ui-monospace,"Cascadia Mono",Consolas,monospace;font-size:13px;line-height:1.7;color:#566173}.meta-row dd{font-size:15px;font-weight:600}.about__offers{flex:1 1 460px;min-width:0}.about__subtitle{font-size:15px;font-weight:700;color:#566173}.offers{display:grid;gap:16px;margin-top:20px}.offer{display:flex;gap:20px;padding:26px;background:#fff;border:1px solid #e2e7ee;border-radius:20px}@media(max-width: 599.98px){.offer{gap:14px;padding:22px 20px}}.offer__num{flex-shrink:0;font-family:"JetBrains Mono",ui-monospace,"Cascadia Mono",Consolas,monospace;font-size:14px;font-weight:500;line-height:1.75;color:#2563eb}.offer__title{font-size:18px;font-weight:800}.offer__text{margin-top:8px;font-size:15px;line-height:1.6;color:#566173}.cta{display:flex;flex-wrap:wrap;align-items:center;justify-content:space-between;gap:32px 48px;padding:clamp(28px,5vw,56px);border-radius:32px;background:#eaf0fb}@media(max-width: 599.98px){.cta{border-radius:24px}}.cta__content{flex:1 1 480px;min-width:0}.cta__title{font-size:clamp(28px,3vw,40px);font-weight:800;line-height:1.15;letter-spacing:-0.025em;text-wrap:balance}.cta__text{max-width:560px;margin-top:16px;font-size:17px;line-height:1.6;color:#3e4859}.footer{border-top:1px solid #e2e7ee}.footer__inner{display:flex;flex-wrap:wrap;align-items:center;justify-content:space-between;gap:12px 32px;padding-block:28px 32px;font-size:14px;line-height:1.5;color:#566173}.footer__link{font-weight:600}

diff --git a/docs/index.html b/docs/index.html
@@ -11,7 +11,7 @@
 <meta property="og:locale" content="ru_RU">
 <meta property="og:url" content="https://karelin-dev.github.io/">
 <meta property="og:title" content="Иван Карелин: frontend-разработчик">
-<meta property="og:description" content="Портфолио: лендинги с калькулятором, квизом и онлайн-записью. Живые демо и открытый код.">
+<meta property="og:description" content="Портфолио: каталог недвижимости на Nuxt, лендинги с калькулятором, квизом и онлайн-записью. Живые демо и открытый код.">
 <meta property="og:image" content="https://karelin-dev.github.io/img/og.jpg">
 <meta name="twitter:card" content="summary_large_image">
 <link rel="icon" href="favicon.svg" type="image/svg+xml">
@@ -94,7 +94,7 @@
         </div>
         <ul class="facts">
           <li class="facts__item"><span class="facts__value">2022</span><span class="facts__label">верстаю с июля 2022 года</span></li>
-          <li class="facts__item"><span class="facts__value">95 и 98</span><span class="facts__label">Lighthouse mobile у работ ниже</span></li>
+          <li class="facts__item"><span class="facts__value">95–99</span><span class="facts__label">Lighthouse mobile у работ ниже</span></li>
           <li class="facts__item"><span class="facts__value">320 px</span><span class="facts__label">адаптив от самых узких экранов</span></li>
         </ul>
       </div>
@@ -145,6 +145,64 @@
       </div>
 
       <div class="works">
+        <article class="work-card work-card--wide" aria-labelledby="work-litera">
+          <div class="work-card__media work-card__media--litera">
+            <div class="browser">
+              <div class="browser__bar">
+                <span class="dots dots--sm" aria-hidden="true"><span></span><span></span><span></span></span>
+                <span class="browser__url">karelin-dev.github.io/realty-catalog</span>
+              </div>
+              <img class="browser__shot" src="img/litera-desktop-1040.webp" srcset="img/litera-desktop-600.webp 600w, img/litera-desktop-1040.webp 1040w" sizes="(min-width: 1200px) 540px, (min-width: 984px) calc(54vw - 110px), calc(100vw - 90px)" width="1040" height="1120" alt="Главная каталога «Литера»: заголовок «Ваш новый адрес в Петербурге», строка поиска и фото канала" loading="lazy" decoding="async">
+            </div>
+            <div class="phone">
+              <img src="img/litera-mobile-300.webp" width="300" height="633" alt="Мобильная версия каталога «Литера»" loading="lazy" decoding="async">
+            </div>
+          </div>
+          <div class="work-card__body">
+            <div class="work-card__tags">
+              <span class="work-card__num">01</span>
+              <span class="tag">Многостраничный сайт</span>
+              <span class="tag">Каталог и карта</span>
+            </div>
+            <div>
+              <h3 class="work-card__title" id="work-litera">«Литера»: агентство недвижимости</h3>
+              <p class="work-card__text">Каталог квартир и домов на Nuxt: фильтры, карта, страница объекта с ипотечным калькулятором и записью на просмотр.</p>
+            </div>
+            <ul class="checklist">
+              <li><svg class="icon" aria-hidden="true"><use href="#i-check"/></svg>Фильтры в адресе страницы: подборку можно отправить ссылкой</li>
+              <li><svg class="icon" aria-hidden="true"><use href="#i-check"/></svg>Карта Leaflet с ценами на метках, связана со списком</li>
+              <li><svg class="icon" aria-hidden="true"><use href="#i-check"/></svg>Ипотечный калькулятор и поиск по платежу в месяц</li>
+              <li><svg class="icon" aria-hidden="true"><use href="#i-check"/></svg>Избранное со сравнением, запись на просмотр с файлом .ics</li>
+            </ul>
+            <ul class="code-tags" aria-label="Стек">
+              <li>Vue 3</li>
+              <li>Nuxt 4</li>
+              <li>JavaScript</li>
+              <li>Leaflet</li>
+              <li>SSG</li>
+            </ul>
+            <div class="scores">
+              <p class="scores__title">Lighthouse, мобильная версия, главная</p>
+              <ul class="scores__list">
+                <li class="score"><span class="score__value">99</span><span class="score__label">Скорость</span></li>
+                <li class="score"><span class="score__value">100</span><span class="score__label">Доступность</span></li>
+                <li class="score"><span class="score__value">100</span><span class="score__label">Практики</span></li>
+                <li class="score"><span class="score__value">100</span><span class="score__label">SEO</span></li>
+              </ul>
+            </div>
+            <div class="work-card__actions">
+              <a class="btn btn--primary btn--md" href="https://karelin-dev.github.io/realty-catalog/">
+                Открыть демо<span class="visually-hidden"> «Литера»</span>
+                <svg class="icon" aria-hidden="true"><use href="#i-external"/></svg>
+              </a>
+              <a class="btn btn--outline btn--md" href="https://github.com/karelin-dev/realty-catalog">
+                <svg class="icon" aria-hidden="true"><use href="#i-code"/></svg>
+                Код на GitHub<span class="visually-hidden">: «Литера»</span>
+              </a>
+            </div>
+          </div>
+        </article>
+
         <article class="work-card" aria-labelledby="work-okna">
           <div class="work-card__media work-card__media--okna">
             <div class="browser">
@@ -160,7 +218,7 @@
           </div>
           <div class="work-card__body">
             <div class="work-card__tags">
-              <span class="work-card__num">01</span>
+              <span class="work-card__num">02</span>
               <span class="tag">Лендинг</span>
               <span class="tag">Калькулятор и квиз</span>
             </div>
@@ -218,7 +276,7 @@
           </div>
           <div class="work-card__body">
             <div class="work-card__tags">
-              <span class="work-card__num">02</span>
+              <span class="work-card__num">03</span>
               <span class="tag">Лендинг</span>
               <span class="tag">Онлайн-запись</span>
             </div>
@@ -262,14 +320,6 @@
       </div>
 
       <ul class="upcoming" aria-label="Работы в процессе">
-        <li class="upcoming__card">
-          <div class="upcoming__body">
-            <span class="badge">в работе</span>
-            <h3 class="upcoming__title">Каталог недвижимости</h3>
-            <p class="upcoming__text">Многостраничный сайт: фильтры, карточка объекта с галереей, ипотечный калькулятор.</p>
-          </div>
-          <span class="upcoming__stack">Vue 3 · Nuxt</span>
-        </li>
         <li class="upcoming__card">
           <div class="upcoming__body">
             <span class="badge">в работе</span>

diff --git a/src/scss/blocks/_works.scss b/src/scss/blocks/_works.scss
@@ -37,6 +37,10 @@
     background: #fbeef1;
   }
 
+  &--litera {
+    background: #e8efea;
+  }
+
   @include down($bp-sm) {
     padding: 20px 20px 0;
   }
@@ -97,6 +101,44 @@
     border-width: 4px;
     border-radius: 16px;
   }
+}
+
+// Главная работа на всю ширину: скриншот слева, описание справа.
+// Скриншот растягивается на высоту описания и обрезается снизу.
+.work-card--wide {
+  @media (min-width: 984px) {
+    display: grid;
+    grid-column: 1 / -1;
+    grid-template-columns: minmax(0, 1.2fr) minmax(0, 1fr);
+
+    .work-card__media {
+      display: flex;
+      flex-direction: column;
+      padding: 36px 36px 0;
+    }
+
+    .browser {
+      display: flex;
+      flex: 1;
+      flex-direction: column;
+    }
+
+    .browser__shot {
+      flex: 1 1 0;
+      min-height: 0;
+      aspect-ratio: auto;
+      object-position: left top;
+    }
+
+    .phone {
+      right: 24px;
+      bottom: 24px;
+    }
+  }
+}
+
+.browser__shot {
+  object-position: top;
 }
 
 .work-card__body {

diff --git a/README.md b/README.md
@@ -15,8 +15,9 @@
 - **Дизайн с нуля.** Монограмма «ИК», палитра, подбор шрифтов (Manrope и JetBrains Mono),
   макет десктопа. Вёрстка повторяет макет.
 - **Карточки работ.** Скриншот десктопа в рамке браузера и мобильная версия поверх,
-  что сделано, стек, оценки Lighthouse, ссылки на демо и репозиторий. Ниже работы,
-  которые сейчас в процессе.
+  что сделано, стек, оценки Lighthouse, ссылки на демо и репозиторий. Главная работа
+  (каталог на Nuxt) занимает всю ширину: скриншот слева тянется на высоту описания.
+  Ниже работы, которые сейчас в процессе.
 - **Шрифты со своего домена.** WOFF2 отдельно для кириллицы и латиницы, `preload`
   основного файла, без запросов к Google Fonts. Пока шрифт грузится, текст набран Arial
   с `size-adjust`, подобранным под ширину Manrope: строки переносятся так же, и вёрстка
